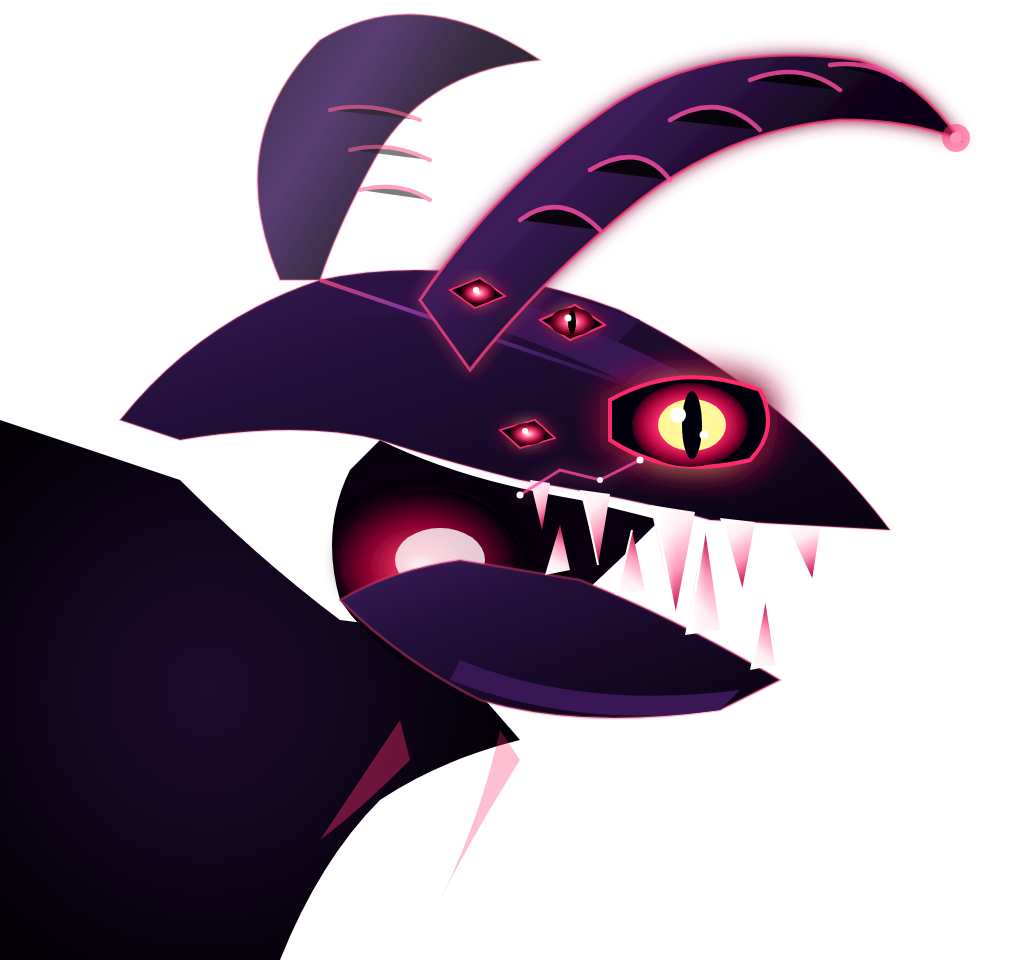
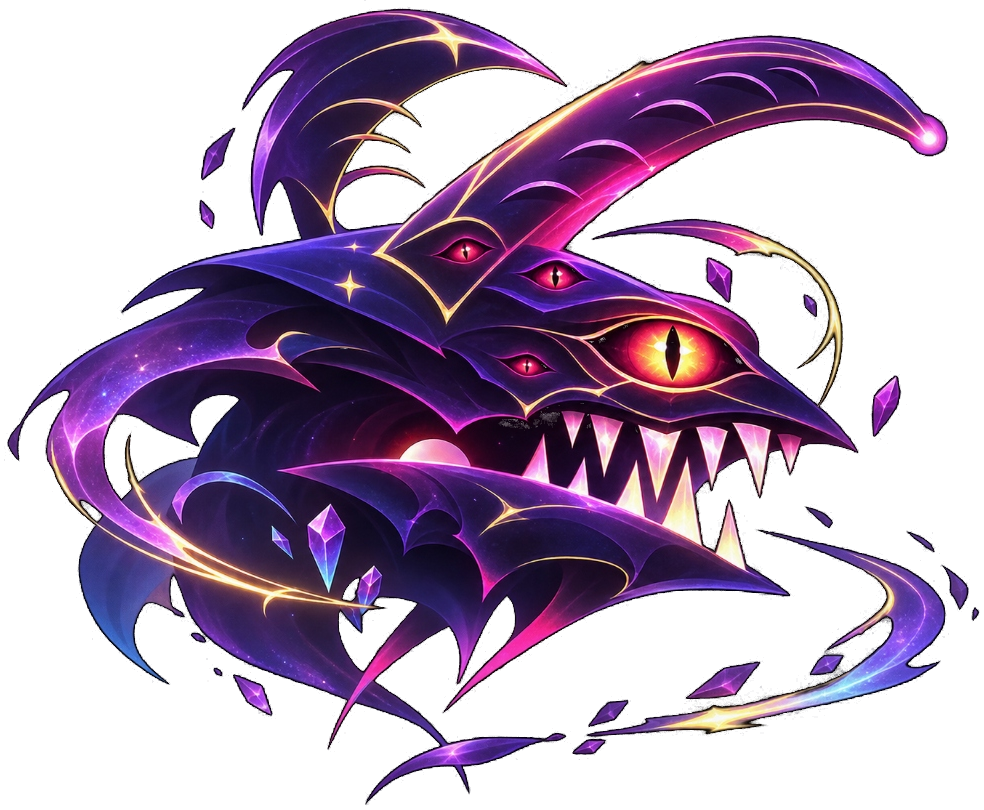
feat(boss): integrate user AI-generated cosmic leviathan sprite and bump cache to v19

diff --git a/src/game.js b/src/game.js
@@ -888,7 +888,7 @@ const tileSlideImg = { day: null, night: null };
 const moverPlatformImg = { day: null, night: null };
 const sawBladeImg = { day: null, night: null };
 const spikesImg = { floorDay: null, floorNight: null, ceiling: null };
-const ASSET_VER = "18";
+const ASSET_VER = "19";
 if (typeof Image !== "undefined") {
   [1, 2, 3, 4, 5].forEach(num => {
     const im = new Image(); im.src = `assets/comic_${num}.jpg?v=${ASSET_VER}`; comicImages.push(im);
@@ -1722,7 +1722,7 @@ function drawBoss(w) {
   const headCenterX = bx - 70 + surgeX;
   const headCenterY = 175 + bobY;
   const sprW = 440;
-  const sprH = 412;
+  const sprH = 362;
 
   if (bossColossusImg && bossColossusImg.complete && bossColossusImg.naturalWidth > 0) {
     ctx.save();
@@ -1737,10 +1737,10 @@ function drawBoss(w) {
     // Draw sprite centered on pivot
     ctx.drawImage(bossColossusImg, -sprW / 2, -sprH / 2, sprW, sprH);
 
-    // Pulsating glowing eye flare on the titan face (calibrated to 1024x960 HD sprite)
+    // Pulsating glowing eye flare on the titan face (calibrated to 984x810 AI boss sprite)
     const eyePulse = 0.8 + 0.35 * Math.sin(T * 5.0);
-    const eyeRelX = (180 / 1024) * sprW;
-    const eyeRelY = (-55 / 960) * sprH;
+    const eyeRelX = 0.142 * sprW;
+    const eyeRelY = -0.0674 * sprH;
 
     ctx.shadowColor = w === 0 ? "#ff0055" : "#a855f7";
     ctx.shadowBlur = 24 * eyePulse;

diff --git a/index.html b/index.html
@@ -136,7 +136,7 @@ window.addEventListener('appinstalled', () => {
 });
 
 if ('serviceWorker' in navigator) {
-  navigator.serviceWorker.register('./sw.js?v=18').then(reg => {
+  navigator.serviceWorker.register('./sw.js?v=19').then(reg => {
     reg.update();
   }).catch(()=>{});
   let refreshing = false;
@@ -148,11 +148,11 @@ if ('serviceWorker' in navigator) {
   });
 }
 </script>
-<script src="src/i18n.js?v=18"></script>
-<script src="src/profile.js?v=18"></script>
-<script src="src/leaderboard.js?v=18"></script>
-<script src="src/levels.js?v=18"></script>
-<script src="src/audio.js?v=18"></script>
-<script src="src/game.js?v=18"></script>
+<script src="src/i18n.js?v=19"></script>
+<script src="src/profile.js?v=19"></script>
+<script src="src/leaderboard.js?v=19"></script>
+<script src="src/levels.js?v=19"></script>
+<script src="src/audio.js?v=19"></script>
+<script src="src/game.js?v=19"></script>
 </body>
 </html>

diff --git a/sw.js b/sw.js
@@ -1,4 +1,4 @@
-const CACHE_NAME = "shift-v18";
+const CACHE_NAME = "shift-v19";
 const ASSETS = [
   "./",
   "./index.html",

diff --git a/tools/process_user_boss.py b/tools/process_user_boss.py
@@ -1,0 +1,102 @@
+#!/usr/bin/env python3
+"""
+Convert user AI-generated boss image into a transparent RGBA game sprite.
+- Cleans black background without dark halos.
+- Preserves smooth outer nebula glows, stardust wisps, and neon highlights.
+- Keeps interior dark carapace and mouth cavity 100% opaque.
+"""
+import numpy as np
+from PIL import Image, ImageFilter
+from collections import deque
+
+def process_boss(src_path, dst_path):
+    orig = Image.open(src_path).convert('RGB')
+    arr = np.array(orig, dtype=np.float32)
+    h, w, _ = arr.shape
+    max_c = np.max(arr, axis=2)
+
+    # 1. Flood fill from 4 borders to identify exterior background
+    # Any border-connected pixel with max_c < 8 is outer void
+    is_outer_void = np.zeros((h, w), dtype=bool)
+    q = deque()
+    for x in range(w):
+        if max_c[0, x] < 8 and not is_outer_void[0, x]:
+            is_outer_void[0, x] = True; q.append((0, x))
+        if max_c[h-1, x] < 8 and not is_outer_void[h-1, x]:
+            is_outer_void[h-1, x] = True; q.append((h-1, x))
+    for y in range(h):
+        if max_c[y, 0] < 8 and not is_outer_void[y, 0]:
+            is_outer_void[y, 0] = True; q.append((y, 0))
+        if max_c[y, w-1] < 8 and not is_outer_void[y, w-1]:
+            is_outer_void[y, w-1] = True; q.append((y, w-1))
+
+    while q:
+        y, x = q.popleft()
+        for dy, dx in [(-1,0), (1,0), (0,-1), (0,1)]:
+            ny, nx = y + dy, x + dx
+            if 0 <= ny < h and 0 <= nx < w:
+                if not is_outer_void[ny, nx] and max_c[ny, nx] < 8:
+                    is_outer_void[ny, nx] = True
+                    q.append((ny, nx))
+
+    # 2. Build solid interior mask:
+    # Any pixel not connected to outer void, OR with strong brightness (max_c >= 45)
+    # is part of the creature.
+    creature_mask = (~is_outer_void) | (max_c >= 8)
+
+    # 3. Create alpha channel:
+    # Outer black void: 0
+    # Interior / solid body: 255
+    # Outer glow / wisps: smooth transition based on brightness
+    alpha = np.zeros((h, w), dtype=np.float32)
+    
+    # Interior solid pixels (not connected to outer void)
+    alpha[~is_outer_void] = 255.0
+
+    # For pixels that touch the outer boundary with subtle glow / stardust:
+    # Use unmultiplied alpha formula for additive glows:
+    # alpha = min(255, (max_c / 60.0)**0.85 * 255)
+    glow_pixels = is_outer_void & (max_c >= 8)
+    alpha[glow_pixels] = np.clip((max_c[glow_pixels] / 70.0) ** 0.85 * 255.0, 0, 255.0)
+
+    # Also for pixels with max_c < 45 near the outer edge, allow a gentle feathering
+    # to avoid hard jagged pixel steps
+    rgb = np.copy(arr)
+    
+    # For semi-transparent pixels (0 < alpha < 255), unmultiply the color
+    # so that when canvas blends source-over, the color isn't darkened by black
+    semi = (alpha > 0) & (alpha < 255)
+    a_norm = alpha[semi] / 255.0
+    for c in range(3):
+        rgb[semi, c] = np.clip(rgb[semi, c] / np.maximum(a_norm, 0.15), 0, 255)
+
+    # Assemble RGBA
+    out_arr = np.zeros((h, w, 4), dtype=np.uint8)
+    out_arr[:, :, :3] = np.clip(rgb, 0, 255).astype(np.uint8)
+    out_arr[:, :, 3] = np.clip(alpha, 0, 255).astype(np.uint8)
+
+    out_img = Image.fromarray(out_arr, mode='RGBA')
+
+    # Find bounding box of non-zero alpha and crop tightly with 8px padding
+    bbox = out_img.getbbox()
+    if bbox:
+        pad = 8
+        crop_box = (
+            max(0, bbox[0] - pad),
+            max(0, bbox[1] - pad),
+            min(w, bbox[2] + pad),
+            min(h, bbox[3] + pad)
+        )
+        cropped = out_img.crop(crop_box)
+        print(f"Original size: ({w}, {h}), Cropped size: {cropped.size}, Bbox: {bbox}")
+        cropped.save(dst_path, "PNG", optimize=True)
+        return crop_box, cropped.size
+    else:
+        out_img.save(dst_path, "PNG", optimize=True)
+        return (0, 0, w, h), (w, h)
+
+if __name__ == "__main__":
+    src = "/home/abdul-rachmat/.gemini/antigravity/brain/5132f33e-3352-4ecd-bffe-93d56481061b/.user_uploaded/media_1795534433616_eb39620a.jpg"
+    dst = "assets/boss_colossus.png"
+    crop_box, size = process_boss(src, dst)
+    print("Done processing boss sprite ->", dst, "Size:", size)
